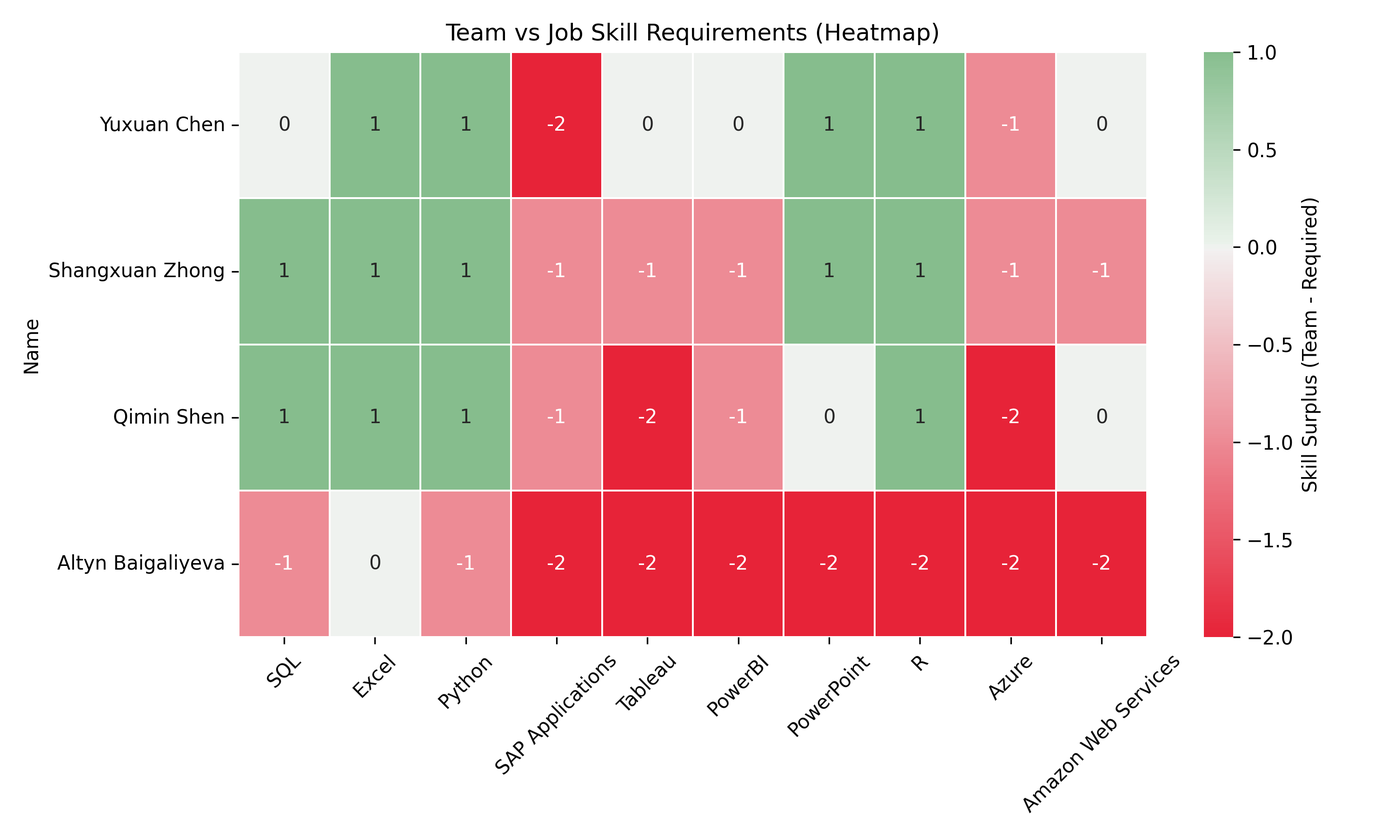
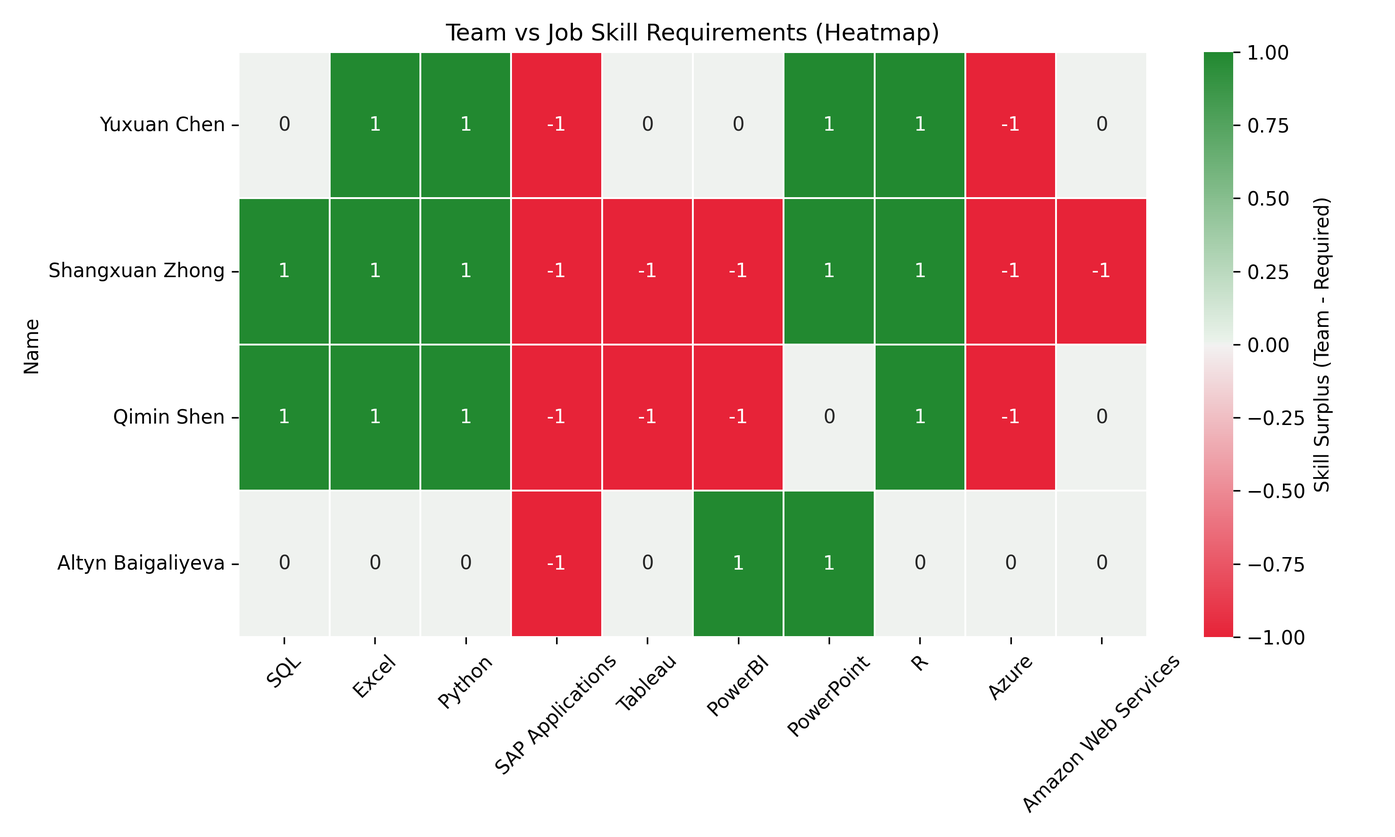
Built site for gh-pages

diff --git a/skill_gap_analysis.html b/skill_gap_analysis.html
@@ -209,7 +209,7 @@ pre > code.sourceCode > span > a:first-child::before { text-decoration: underlin
 </header>
 
 
-<div id="ce1b566e" class="cell" data-execution_count="1">
+<div id="b897d905" class="cell" data-execution_count="1">
 <details class="code-fold">
 <summary>Code</summary>
 <div class="sourceCode cell-code" id="cb1"><pre class="sourceCode python code-with-copy"><code class="sourceCode python"><span id="cb1-1"><a href="#cb1-1" aria-hidden="true" tabindex="-1"></a><span class="im">import</span> pandas <span class="im">as</span> pd</span>
@@ -231,7 +231,7 @@ pre > code.sourceCode > span > a:first-child::before { text-decoration: underlin
 <section id="creating-a-team-based-skills-data-framework" class="level2" data-number="1">
 <h2 data-number="1" class="anchored" data-anchor-id="creating-a-team-based-skills-data-framework"><span class="header-section-number">1</span> Creating a team-based skills data framework</h2>
 <p>We take a column of software skill names from the cleaned dataset, splits each entry, cleans up the text, and counts how often each skill appears. Then, we grabs the top 30 most frequent skills, and puts them into a tidy table using pandas to make it easier to view.</p>
-<div id="de0eb65f" class="cell" data-execution_count="2">
+<div id="d9a09c83" class="cell" data-execution_count="2">
 <details class="code-fold">
 <summary>Code</summary>
 <div class="sourceCode cell-code" id="cb2"><pre class="sourceCode python code-with-copy"><code class="sourceCode python"><span id="cb2-1"><a href="#cb2-1" aria-hidden="true" tabindex="-1"></a><span class="im">from</span> collections <span class="im">import</span> Counter</span>
@@ -258,7 +258,7 @@ pre > code.sourceCode > span > a:first-child::before { text-decoration: underlin
 </details>
 </div>
 <p>We build a table showing the skill levels of our team members across various tools like SQL, Excel, Python, and others. Then we create a heatmap to visually highlight each person’s strengths and weaknesses, making it easy to compare skill levels across the team.</p>
-<div id="de417283" class="cell" data-execution_count="3">
+<div id="f37fe4df" class="cell" data-execution_count="3">
 <details class="code-fold">
 <summary>Code</summary>
 <div class="sourceCode cell-code" id="cb3"><pre class="sourceCode python code-with-copy"><code class="sourceCode python"><span id="cb3-1"><a href="#cb3-1" aria-hidden="true" tabindex="-1"></a><span class="im">import</span> pandas <span class="im">as</span> pd</span>
@@ -268,16 +268,16 @@ pre > code.sourceCode > span > a:first-child::before { text-decoration: underlin
 <span id="cb3-5"><a href="#cb3-5" aria-hidden="true" tabindex="-1"></a><span class="co"># 1. Construct team skill level data</span></span>
 <span id="cb3-6"><a href="#cb3-6" aria-hidden="true" tabindex="-1"></a>skills_data <span class="op">=</span> {</span>
 <span id="cb3-7"><a href="#cb3-7" aria-hidden="true" tabindex="-1"></a>    <span class="st">"Name"</span>: [<span class="st">"Yuxuan Chen"</span>, <span class="st">"Shangxuan Zhong"</span>, <span class="st">"Qimin Shen"</span>, <span class="st">"Altyn Baigaliyeva"</span>],</span>
-<span id="cb3-8"><a href="#cb3-8" aria-hidden="true" tabindex="-1"></a>    <span class="st">"SQL"</span>: [<span class="dv">3</span>, <span class="dv">4</span>, <span class="dv">4</span>, <span class="dv">2</span>],</span>
+<span id="cb3-8"><a href="#cb3-8" aria-hidden="true" tabindex="-1"></a>    <span class="st">"SQL"</span>: [<span class="dv">3</span>, <span class="dv">4</span>, <span class="dv">4</span>, <span class="dv">3</span>],</span>
 <span id="cb3-9"><a href="#cb3-9" aria-hidden="true" tabindex="-1"></a>    <span class="st">"Excel"</span>: [<span class="dv">4</span>, <span class="dv">4</span>, <span class="dv">4</span>, <span class="dv">3</span>],</span>
-<span id="cb3-10"><a href="#cb3-10" aria-hidden="true" tabindex="-1"></a>    <span class="st">"Python"</span>: [<span class="dv">4</span>, <span class="dv">4</span>, <span class="dv">4</span>, <span class="dv">2</span>],</span>
-<span id="cb3-11"><a href="#cb3-11" aria-hidden="true" tabindex="-1"></a>    <span class="st">"SAP Applications"</span>: [<span class="dv">1</span>, <span class="dv">2</span>, <span class="dv">2</span>, <span class="dv">1</span>],</span>
-<span id="cb3-12"><a href="#cb3-12" aria-hidden="true" tabindex="-1"></a>    <span class="st">"Tableau"</span>: [<span class="dv">3</span>, <span class="dv">2</span>, <span class="dv">1</span>, <span class="dv">1</span>],</span>
-<span id="cb3-13"><a href="#cb3-13" aria-hidden="true" tabindex="-1"></a>    <span class="st">"PowerBI"</span>: [<span class="dv">3</span>, <span class="dv">2</span>, <span class="dv">2</span>, <span class="dv">1</span>],</span>
-<span id="cb3-14"><a href="#cb3-14" aria-hidden="true" tabindex="-1"></a>    <span class="st">"PowerPoint"</span>: [<span class="dv">4</span>, <span class="dv">4</span>, <span class="dv">3</span>, <span class="dv">1</span>],</span>
-<span id="cb3-15"><a href="#cb3-15" aria-hidden="true" tabindex="-1"></a>    <span class="st">"R"</span>: [<span class="dv">4</span>, <span class="dv">4</span>, <span class="dv">4</span>, <span class="dv">1</span>],</span>
-<span id="cb3-16"><a href="#cb3-16" aria-hidden="true" tabindex="-1"></a>    <span class="st">"Azure"</span>: [<span class="dv">2</span>, <span class="dv">2</span>, <span class="dv">1</span>, <span class="dv">1</span>],</span>
-<span id="cb3-17"><a href="#cb3-17" aria-hidden="true" tabindex="-1"></a>    <span class="st">"Amazon Web Services"</span>: [<span class="dv">3</span>, <span class="dv">2</span>, <span class="dv">3</span>, <span class="dv">1</span>]</span>
+<span id="cb3-10"><a href="#cb3-10" aria-hidden="true" tabindex="-1"></a>    <span class="st">"Python"</span>: [<span class="dv">4</span>, <span class="dv">4</span>, <span class="dv">4</span>, <span class="dv">3</span>],</span>
+<span id="cb3-11"><a href="#cb3-11" aria-hidden="true" tabindex="-1"></a>    <span class="st">"SAP Applications"</span>: [<span class="dv">2</span>, <span class="dv">2</span>, <span class="dv">2</span>, <span class="dv">2</span>],</span>
+<span id="cb3-12"><a href="#cb3-12" aria-hidden="true" tabindex="-1"></a>    <span class="st">"Tableau"</span>: [<span class="dv">3</span>, <span class="dv">2</span>, <span class="dv">2</span>, <span class="dv">3</span>],</span>
+<span id="cb3-13"><a href="#cb3-13" aria-hidden="true" tabindex="-1"></a>    <span class="st">"PowerBI"</span>: [<span class="dv">3</span>, <span class="dv">2</span>, <span class="dv">2</span>, <span class="dv">4</span>],</span>
+<span id="cb3-14"><a href="#cb3-14" aria-hidden="true" tabindex="-1"></a>    <span class="st">"PowerPoint"</span>: [<span class="dv">4</span>, <span class="dv">4</span>, <span class="dv">3</span>, <span class="dv">4</span>],</span>
+<span id="cb3-15"><a href="#cb3-15" aria-hidden="true" tabindex="-1"></a>    <span class="st">"R"</span>: [<span class="dv">4</span>, <span class="dv">4</span>, <span class="dv">4</span>, <span class="dv">3</span>],</span>
+<span id="cb3-16"><a href="#cb3-16" aria-hidden="true" tabindex="-1"></a>    <span class="st">"Azure"</span>: [<span class="dv">2</span>, <span class="dv">2</span>, <span class="dv">2</span>, <span class="dv">3</span>],</span>
+<span id="cb3-17"><a href="#cb3-17" aria-hidden="true" tabindex="-1"></a>    <span class="st">"Amazon Web Services"</span>: [<span class="dv">3</span>, <span class="dv">2</span>, <span class="dv">3</span>, <span class="dv">3</span>]</span>
 <span id="cb3-18"><a href="#cb3-18" aria-hidden="true" tabindex="-1"></a>}</span>
 <span id="cb3-19"><a href="#cb3-19" aria-hidden="true" tabindex="-1"></a></span>
 <span id="cb3-20"><a href="#cb3-20" aria-hidden="true" tabindex="-1"></a><span class="co"># 2. Create dataframe and set Name as index</span></span>
@@ -304,7 +304,7 @@ pre > code.sourceCode > span > a:first-child::before { text-decoration: underlin
 <section id="compare-team-skills-to-industry-requirements" class="level2" data-number="2">
 <h2 data-number="2" class="anchored" data-anchor-id="compare-team-skills-to-industry-requirements"><span class="header-section-number">2</span> Compare team skills to industry requirements</h2>
 <p>We add a new column EDU_MATCH to the dataset to check if each person’s actual education level matches the minimum education requirement. If they match, it labels the row as “Match”; otherwise, it marks it as “Mismatch.” This makes it easy to see who meets the education criteria and who doesn’t.</p>
-<div id="c47fb356" class="cell" data-execution_count="4">
+<div id="85d025f5" class="cell" data-execution_count="4">
 <details class="code-fold">
 <summary>Code</summary>
 <div class="sourceCode cell-code" id="cb4"><pre class="sourceCode python code-with-copy"><code class="sourceCode python"><span id="cb4-1"><a href="#cb4-1" aria-hidden="true" tabindex="-1"></a><span class="im">from</span> pyspark.sql.functions <span class="im">import</span> col, when</span>
@@ -325,7 +325,7 @@ pre > code.sourceCode > span > a:first-child::before { text-decoration: underlin
 </details>
 </div>
 <p>Then we create a reference table that links each unique minimum education level required for a job to a corresponding score. It assigns higher scores to higher education levels, for example, a Ph.D.&nbsp;gets a 5, a Master’s a 4, and so on, down to 0 for jobs that list no education requirement. And we think this scoring helps quantify and compare job expectations based on the level of education required.</p>
-<div id="3de45dbc" class="cell" data-execution_count="5">
+<div id="1349e6b0" class="cell" data-execution_count="5">
 <details class="code-fold">
 <summary>Code</summary>
 <div class="sourceCode cell-code" id="cb5"><pre class="sourceCode python code-with-copy"><code class="sourceCode python"><span id="cb5-1"><a href="#cb5-1" aria-hidden="true" tabindex="-1"></a><span class="im">from</span> pyspark.sql.functions <span class="im">import</span> when, lit, col, trim</span>
@@ -355,7 +355,7 @@ pre > code.sourceCode > span > a:first-child::before { text-decoration: underlin
 </figure>
 </div>
 <p>We analyze how often each software skill appears in job listings, categorized by the required education level (which we previously converted into scores). First, we join the education score to each job, split the combined skill strings into individual skills, and count how frequently each skill appears at each education score level. Second, we reshape the data so that each skill shows the number of times it appears across all score levels. Finally, we identify the most common score for each skill. If multiple scores tie for the highest count, we will select the lowest one among them—resulting in a “Proficiency_Levels” value that reflects the typical education requirement associated with that skill in the job market.</p>
-<div id="57450f72" class="cell" data-execution_count="6">
+<div id="99afce66" class="cell" data-execution_count="6">
 <details class="code-fold">
 <summary>Code</summary>
 <div class="sourceCode cell-code" id="cb6"><pre class="sourceCode python code-with-copy"><code class="sourceCode python"><span id="cb6-1"><a href="#cb6-1" aria-hidden="true" tabindex="-1"></a><span class="im">from</span> pyspark.sql.functions <span class="im">import</span> count, array, struct, sort_array, expr, size, element_at, col, lit, greatest, when</span>
@@ -401,7 +401,7 @@ pre > code.sourceCode > span > a:first-child::before { text-decoration: underlin
 </details>
 </div>
 <p>Here we focus on a specific set of software skills that are relevant to our analysis. First, we define a list of target skills we’re interested in, such as SQL, Excel, Python, Tableau, and others. Then, we filter our previously processed skill data to only include these selected skills, keeping just the skill names and their associated “Proficiency_Levels”. Finally, we sort the result alphabetically by skill name to make it easier to review and compare.</p>
-<div id="ac59bd6c" class="cell" data-execution_count="7">
+<div id="23395e1f" class="cell" data-execution_count="7">
 <details class="code-fold">
 <summary>Code</summary>
 <div class="sourceCode cell-code" id="cb7"><pre class="sourceCode python code-with-copy"><code class="sourceCode python"><span id="cb7-1"><a href="#cb7-1" aria-hidden="true" tabindex="-1"></a><span class="im">from</span> pyspark.sql.functions <span class="im">import</span> lit</span>
@@ -430,7 +430,7 @@ pre > code.sourceCode > span > a:first-child::before { text-decoration: underlin
 </figure>
 </div>
 <p>Now we are able to evaluate how well our team’s skill levels match up with job market expectations. First, we collect the proficiency scores for a set of target skills from our previous results. Then, we rename the skill labels into a more readable and consistent format for easier comparison. Next, we calculate the skill gap for each team member by subtracting the job-required score from their actual skill level. Here, positive values mean the team exceeds the requirement, while negative values show areas for improvement. Finally, we visualize these gaps using a heatmap, making it easy to spot which skills are strong and which need development across the team.</p>
-<div id="c0b00d12" class="cell" data-execution_count="8">
+<div id="646a9ae2" class="cell" data-execution_count="8">
 <details class="code-fold">
 <summary>Code</summary>
 <div class="sourceCode cell-code" id="cb8"><pre class="sourceCode python code-with-copy"><code class="sourceCode python"><span id="cb8-1"><a href="#cb8-1" aria-hidden="true" tabindex="-1"></a><span class="im">import</span> pandas <span class="im">as</span> pd</span>

diff --git a/ml_methods.html b/ml_methods.html
@@ -226,7 +226,7 @@ pre > code.sourceCode > span > a:first-child::before { text-decoration: underlin
 </header>
 
 
-<div id="13be7d13" class="cell" data-execution_count="1">
+<div id="95ecd29c" class="cell" data-execution_count="1">
 <details class="code-fold">
 <summary>Code</summary>
 <div class="sourceCode cell-code" id="cb1"><pre class="sourceCode python code-with-copy"><code class="sourceCode python"><span id="cb1-1"><a href="#cb1-1" aria-hidden="true" tabindex="-1"></a><span class="im">import</span> pandas <span class="im">as</span> pd</span>
@@ -250,7 +250,7 @@ pre > code.sourceCode > span > a:first-child::before { text-decoration: underlin
 <section id="build-model-and-compute-sse" class="level2" data-number="1.1">
 <h2 data-number="1.1" class="anchored" data-anchor-id="build-model-and-compute-sse"><span class="header-section-number">1.1</span> Build model and compute SSE</h2>
 <p>Here we run a clustering analysis on our cleaned dataset to explore how different job roles might naturally group together based on salary, employment type, and a few categorical factors like job duration, education level, remote options, and state. First, we convert the numeric fields to the right type, and encode the categorical ones so the model can understand them. Then we bring everything together into a single feature set, standardize it to keep things fair across scales, and try out different numbers of clusters using K-Means. For each value of k, we fit the model and record the SSE, which gives us a sense of how tight the clusters are. Finally, we plot those values to create an Elbow chart, which helps us visually decide the most reasonable number of clusters to use moving forward.</p>
-<div id="936c192a" class="cell" data-execution_count="2">
+<div id="1298db07" class="cell" data-execution_count="2">
 <details class="code-fold">
 <summary>Code</summary>
 <div class="sourceCode cell-code" id="cb2"><pre class="sourceCode python code-with-copy"><code class="sourceCode python"><span id="cb2-1"><a href="#cb2-1" aria-hidden="true" tabindex="-1"></a><span class="im">from</span> pyspark.ml.clustering <span class="im">import</span> KMeans</span>
@@ -324,7 +324,7 @@ pre > code.sourceCode > span > a:first-child::before { text-decoration: underlin
 <section id="cluster-validation" class="level2" data-number="1.2">
 <h2 data-number="1.2" class="anchored" data-anchor-id="cluster-validation"><span class="header-section-number">1.2</span> Cluster validation</h2>
 <p>We go on capturing the cluster each data point falls into. We focus on comparing the resulting clusters with the actual employment type to see how well our unsupervised model aligns with that real-world label. We encode the employment types into numeric labels using LabelEncoder, and then use two metrics, Normalized Mutual Information (NMI) and Adjusted Rand Index (ARI), to quantify the similarity between our clusters and the actual labels. These scores give us a sense of whether the model found meaningful groupings or just jumbled everything together, while a higher score means better alignment. So this helps us validate how useful the clustering might actually be.</p>
-<div id="94945f2f" class="cell" data-execution_count="3">
+<div id="1c8f94fd" class="cell" data-execution_count="3">
 <details class="code-fold">
 <summary>Code</summary>
 <div class="sourceCode cell-code" id="cb3"><pre class="sourceCode python code-with-copy"><code class="sourceCode python"><span id="cb3-1"><a href="#cb3-1" aria-hidden="true" tabindex="-1"></a><span class="im">from</span> sklearn.preprocessing <span class="im">import</span> LabelEncoder</span>
@@ -363,7 +363,7 @@ pre > code.sourceCode > span > a:first-child::before { text-decoration: underlin
 <section id="comparing-and-show-results" class="level2" data-number="1.3">
 <h2 data-number="1.3" class="anchored" data-anchor-id="comparing-and-show-results"><span class="header-section-number">1.3</span> Comparing and show results</h2>
 <p>After clustering, we wanted to get a clearer, more intuitive sense of what the clusters actually look like. So we built a bunch of scatter plots to visually explore the patterns. We pull each key variables, job duration, education level, employment type, remote status, and state, then compare them against salary while highlighting different clusters one at a time. For categorical variables, we do a bit of behind-the-scenes magic to convert them into numbers for plotting, and we use a jitter function to keep overlapping points from stacking on top of each other. Each row in the grid of plots represents a variable, and each column highlights a different cluster, making it easier to spot what sets one group apart from the others. This helps us interpret the clusters more meaningfully—like whether one cluster tends to include higher salaries or is dominated by remote jobs.</p>
-<div id="1aaad319" class="cell" data-execution_count="4">
+<div id="f6897c66" class="cell" data-execution_count="4">
 <details class="code-fold">
 <summary>Code</summary>
 <div class="sourceCode cell-code" id="cb4"><pre class="sourceCode python code-with-copy"><code class="sourceCode python"><span id="cb4-1"><a href="#cb4-1" aria-hidden="true" tabindex="-1"></a><span class="im">import</span> matplotlib.pyplot <span class="im">as</span> plt</span>
@@ -443,7 +443,7 @@ pre > code.sourceCode > span > a:first-child::before { text-decoration: underlin
 <p>We generate individual plots for each variable we’re analyzing, one plot per variable, showing how salary relates to that variable across the different clusters. For each variable like duration, education, or remote type, we highlight each cluster one at a time (so 3 plots per variable), which really helps us zoom in and understand what makes each cluster unique in relation to salary. And we save all these charts in the image folder.</p>
 <section id="k-means-of-duration" class="level3" data-number="1.4.1">
 <h3 data-number="1.4.1" class="anchored" data-anchor-id="k-means-of-duration"><span class="header-section-number">1.4.1</span> K-Means of Duration</h3>
-<div id="05122729" class="cell" data-execution_count="5">
+<div id="663ff835" class="cell" data-execution_count="5">
 <details class="code-fold">
 <summary>Code</summary>
 <div class="sourceCode cell-code" id="cb5"><pre class="sourceCode python code-with-copy"><code class="sourceCode python"><span id="cb5-1"><a href="#cb5-1" aria-hidden="true" tabindex="-1"></a><span class="im">import</span> os</span>
@@ -560,7 +560,7 @@ pre > code.sourceCode > span > a:first-child::before { text-decoration: underlin
 <section id="build-model" class="level2" data-number="2.1">
 <h2 data-number="2.1" class="anchored" data-anchor-id="build-model"><span class="header-section-number">2.1</span> Build model</h2>
 <p>We’re building a multivariate linear regression model to predict salary, by preprocessing everything carefully before the modeling step. First, we pick the features we believe are relevant, like job duration, education level, employment type, remote status, and state. Since machine learning models can’t handle raw strings, we convert all the categorical fields into numerical format using indexing and one-hot encoding. Then, we combine everything (including the duration field) into a single feature vector and standardize the scale, so each variable has a fair influence on the model. We split the data into training and testing sets, build a pipeline to keep things clean and reproducible, and train a linear regression model. Finally, we evaluate how well our model performs using R² and RMSE, giving us a solid sense of how much of the salary variance we’re capturing—and how far off we might be on average.</p>
-<div id="bc5c648c" class="cell" data-execution_count="6">
+<div id="fefcc6ac" class="cell" data-execution_count="6">
 <details class="code-fold">
 <summary>Code</summary>
 <div class="sourceCode cell-code" id="cb6"><pre class="sourceCode python code-with-copy"><code class="sourceCode python"><span id="cb6-1"><a href="#cb6-1" aria-hidden="true" tabindex="-1"></a><span class="co"># Multiple Linear Regression</span></span>
@@ -613,7 +613,7 @@ pre > code.sourceCode > span > a:first-child::before { text-decoration: underlin
 <section id="results-and-analysis" class="level2" data-number="2.2">
 <h2 data-number="2.2" class="anchored" data-anchor-id="results-and-analysis"><span class="header-section-number">2.2</span> Results and analysis</h2>
 <p>With two evaluation metrics: R² (how well the model explains salary variation) and RMSE (average prediction error), we create scatter plot is created with actual salaries on the x-axis and predicted on the y-axis, with a red dashed line representing a perfect prediction. And it helps visually assess model accuracy.</p>
-<div id="948be7b6" class="cell" data-execution_count="7">
+<div id="13fcb7fd" class="cell" data-execution_count="7">
 <details class="code-fold">
 <summary>Code</summary>
 <div class="sourceCode cell-code" id="cb7"><pre class="sourceCode python code-with-copy"><code class="sourceCode python"><span id="cb7-1"><a href="#cb7-1" aria-hidden="true" tabindex="-1"></a>pdf <span class="op">=</span> predictions.select(<span class="st">"SALARY"</span>, <span class="st">"prediction"</span>).toPandas()</span>

diff --git a/data_cleaning.html b/data_cleaning.html
@@ -222,7 +222,7 @@ pre > code.sourceCode > span > a:first-child::before { text-decoration: underlin
 
 <section id="load-the-dataset" class="level1">
 <h1>Load the dataset</h1>
-<div id="7ab7e7fb" class="cell" data-execution_count="1">
+<div id="624afc12" class="cell" data-execution_count="1">
 <details class="code-fold">
 <summary>Code</summary>
 <div class="sourceCode cell-code" id="cb1"><pre class="sourceCode python code-with-copy"><code class="sourceCode python"><span id="cb1-1"><a href="#cb1-1" aria-hidden="true" tabindex="-1"></a><span class="im">import</span> pandas <span class="im">as</span> pd</span>
@@ -243,7 +243,7 @@ pre > code.sourceCode > span > a:first-child::before { text-decoration: underlin
 <section id="update-duration" class="level2">
 <h2 class="anchored" data-anchor-id="update-duration">1. Update Duration</h2>
 <p>Calculates the duration of each job posting by finding the difference between its expiration and posted dates. Converts the POSTED and EXPIRED columns from string to date format. Update DURATION if it is null with the number of days between EXPIRED and POSTED, otherwise, the existing value is kept.</p>
-<div id="dd3f7212" class="cell" data-execution_count="2">
+<div id="9d742d3b" class="cell" data-execution_count="2">
 <details class="code-fold">
 <summary>Code</summary>
 <div class="sourceCode cell-code" id="cb2"><pre class="sourceCode python code-with-copy"><code class="sourceCode python"><span id="cb2-1"><a href="#cb2-1" aria-hidden="true" tabindex="-1"></a><span class="co"># 1.DURATION = EXPIRED - POSTED</span></span>
@@ -266,7 +266,7 @@ pre > code.sourceCode > span > a:first-child::before { text-decoration: underlin
 <section id="clean-the-columns" class="level2">
 <h2 class="anchored" data-anchor-id="clean-the-columns">2. Clean the columns</h2>
 <p>Cleans up multiple text columns in the DataFrame by extracting and formatting the content originally enclosed in double quotes. Columns to clean contain those string values often wrapped in brackets, double quotes, or cluttered with newlines and extra spaces. For each of these columns, using regular expressions to remove square brackets, line breaks, and excess whitespace, formats comma-separated items with a proper space after each comma, and removes all double quotes, resulting in cleaner, more readable text entries across the specified columns.</p>
-<div id="00443ab2" class="cell" data-execution_count="3">
+<div id="90d28f2d" class="cell" data-execution_count="3">
 <details class="code-fold">
 <summary>Code</summary>
 <div class="sourceCode cell-code" id="cb3"><pre class="sourceCode python code-with-copy"><code class="sourceCode python"><span id="cb3-1"><a href="#cb3-1" aria-hidden="true" tabindex="-1"></a><span class="co"># 2. Remove square brackets, line breaks, spaces, and replace the formatting between commas with “,”, then remove the double quotes</span></span>
@@ -288,7 +288,7 @@ pre > code.sourceCode > span > a:first-child::before { text-decoration: underlin
 <section id="clean-the-education-level-column" class="level2">
 <h2 class="anchored" data-anchor-id="clean-the-education-level-column">3. Clean the education level column</h2>
 <p>Cleans the EDUCATION_LEVELS column by extracting and retaining only the numeric portion of each entry. Removing surrounding text or symbols, leaving just the numeric education level in the column. This makes the data more consistent and easier to work with for analysis or modeling purposes.</p>
-<div id="5fae9288" class="cell" data-execution_count="4">
+<div id="d0fd3f1f" class="cell" data-execution_count="4">
 <details class="code-fold">
 <summary>Code</summary>
 <div class="sourceCode cell-code" id="cb4"><pre class="sourceCode python code-with-copy"><code class="sourceCode python"><span id="cb4-1"><a href="#cb4-1" aria-hidden="true" tabindex="-1"></a><span class="co"># 3.EDUCATION_LEVELS only keeps digits</span></span>
@@ -301,7 +301,7 @@ pre > code.sourceCode > span > a:first-child::before { text-decoration: underlin
 <section id="clean-the-location-column" class="level2">
 <h2 class="anchored" data-anchor-id="clean-the-location-column">4. Clean the location column</h2>
 <p>Cleans the LOCATION column, ensures that all location information appears on one line, and removes curly braces, resulting a cleaner, more uniform LOCATION column for reading and analyzing</p>
-<div id="46c866fe" class="cell" data-execution_count="5">
+<div id="f1526696" class="cell" data-execution_count="5">
 <details class="code-fold">
 <summary>Code</summary>
 <div class="sourceCode cell-code" id="cb5"><pre class="sourceCode python code-with-copy"><code class="sourceCode python"><span id="cb5-1"><a href="#cb5-1" aria-hidden="true" tabindex="-1"></a><span class="co"># 4. LOCATION only keeps data</span></span>
@@ -315,7 +315,7 @@ pre > code.sourceCode > span > a:first-child::before { text-decoration: underlin
 <section id="update-modeled-duration" class="level2">
 <h2 class="anchored" data-anchor-id="update-modeled-duration">5. Update Modeled Duration</h2>
 <p>Similarly as in updating duration, fills in the value with the number of days between MODELED_EXPIRED and POSTED, helps standardize and complete the duration data for modeled job postings</p>
-<div id="f1a1e04f" class="cell" data-execution_count="6">
+<div id="e611ef14" class="cell" data-execution_count="6">
 <details class="code-fold">
 <summary>Code</summary>
 <div class="sourceCode cell-code" id="cb6"><pre class="sourceCode python code-with-copy"><code class="sourceCode python"><span id="cb6-1"><a href="#cb6-1" aria-hidden="true" tabindex="-1"></a><span class="co"># 5.MODELED_DURATION = MODELED_EXPIRED - POSTED</span></span>
@@ -337,7 +337,7 @@ pre > code.sourceCode > span > a:first-child::before { text-decoration: underlin
 <section id="standardize-remote-work-types" class="level2">
 <h2 class="anchored" data-anchor-id="standardize-remote-work-types">6. Standardize Remote Work Types</h2>
 <p>Standardizes the values in the REMOTE_TYPE_NAME column to ensure consistency in describing remote work types. Replaces values None and Not Remote with On-Site, changes Hybrid Remote to Hybrid, and keeps Remote as is. Simplify and unify the classification of job postings based on work location</p>
-<div id="b932ebd5" class="cell" data-execution_count="7">
+<div id="27a9a3bf" class="cell" data-execution_count="7">
 <details class="code-fold">
 <summary>Code</summary>
 <div class="sourceCode cell-code" id="cb7"><pre class="sourceCode python code-with-copy"><code class="sourceCode python"><span id="cb7-1"><a href="#cb7-1" aria-hidden="true" tabindex="-1"></a><span class="co"># 6. Standardize Remote Work Types</span></span>
@@ -363,7 +363,7 @@ pre > code.sourceCode > span > a:first-child::before { text-decoration: underlin
 </section>
 <section id="save-the-cleaned-data" class="level2">
 <h2 class="anchored" data-anchor-id="save-the-cleaned-data">9. Save the cleaned data</h2>
-<div id="c0d1a7ef" class="cell" data-execution_count="8">
+<div id="3a8a8422" class="cell" data-execution_count="8">
 <details class="code-fold">
 <summary>Code</summary>
 <div class="sourceCode cell-code" id="cb8"><pre class="sourceCode python code-with-copy"><code class="sourceCode python"><span id="cb8-1"><a href="#cb8-1" aria-hidden="true" tabindex="-1"></a><span class="co"># save data</span></span>

diff --git a/nlp_methods.html b/nlp_methods.html
@@ -219,7 +219,7 @@ pre > code.sourceCode > span > a:first-child::before { text-decoration: underlin
 </header>
 
 
-<div id="0b38c1a4" class="cell" data-execution_count="1">
+<div id="06aa8536" class="cell" data-execution_count="1">
 <details class="code-fold">
 <summary>Code</summary>
 <div class="sourceCode cell-code" id="cb1"><pre class="sourceCode python code-with-copy"><code class="sourceCode python"><span id="cb1-1"><a href="#cb1-1" aria-hidden="true" tabindex="-1"></a><span class="im">import</span> pandas <span class="im">as</span> pd</span>
@@ -241,7 +241,7 @@ pre > code.sourceCode > span > a:first-child::before { text-decoration: underlin
 <section id="extracting-key-terms-from-job-descriptions-using-tf-idf" class="level1" data-number="1">
 <h1 data-number="1"><span class="header-section-number">1</span> Extracting Key Terms from Job Descriptions Using TF-IDF</h1>
 <p>We start by extracting the job description text from the “BODY” column and convert it into a Pandas DataFrame for easier text processing. To clean it up a bit, we remove line breaks so that the text becomes more uniform and easier to analyze. Then, we apply TF-IDF (Term Frequency-Inverse Document Frequency), which helps us identify and quantify the most important words across all descriptions, ignoring common English stop words. This transformation converts the text into a numerical format, capturing how relevant each word is in a particular document compared to the whole collection.</p>
-<div id="a6a8a445" class="cell" data-execution_count="2">
+<div id="ef71c203" class="cell" data-execution_count="2">
 <details class="code-fold">
 <summary>Code</summary>
 <div class="sourceCode cell-code" id="cb2"><pre class="sourceCode python code-with-copy"><code class="sourceCode python"><span id="cb2-1"><a href="#cb2-1" aria-hidden="true" tabindex="-1"></a><span class="im">from</span> sklearn.feature_extraction.text <span class="im">import</span> TfidfVectorizer</span>
@@ -264,7 +264,7 @@ pre > code.sourceCode > span > a:first-child::before { text-decoration: underlin
 <p>We applied KMeans clustering to the TF-IDF features of job descriptions to group similar postings into four distinct clusters. Each job was assigned a cluster label, which we then used to explore the top terms that defined each group. By extracting the most influential keywords from each cluster’s TF-IDF centroid, we generated word clouds to visualize the dominant language and themes within each cluster. These word clouds help us quickly grasp the unique focus of different groups, whether it’s technical, managerial, or creative roles, based on the language used in job descriptions.</p>
 <section id="clustering-tf-idf-features-with-k-means" class="level2" data-number="2.1">
 <h2 data-number="2.1" class="anchored" data-anchor-id="clustering-tf-idf-features-with-k-means"><span class="header-section-number">2.1</span> Clustering TF-IDF features with K-Means</h2>
-<div id="89c39f90" class="cell" data-execution_count="3">
+<div id="ad2a391d" class="cell" data-execution_count="3">
 <details class="code-fold">
 <summary>Code</summary>
 <div class="sourceCode cell-code" id="cb3"><pre class="sourceCode python code-with-copy"><code class="sourceCode python"><span id="cb3-1"><a href="#cb3-1" aria-hidden="true" tabindex="-1"></a><span class="im">from</span> sklearn.cluster <span class="im">import</span> KMeans</span>
@@ -280,7 +280,7 @@ pre > code.sourceCode > span > a:first-child::before { text-decoration: underlin
 </section>
 <section id="generate-word-clouds-for-each-cluster" class="level2" data-number="2.2">
 <h2 data-number="2.2" class="anchored" data-anchor-id="generate-word-clouds-for-each-cluster"><span class="header-section-number">2.2</span> Generate word clouds for each cluster</h2>
-<div id="099a267c" class="cell" data-execution_count="4">
+<div id="9df8ed13" class="cell" data-execution_count="4">
 <details class="code-fold">
 <summary>Code</summary>
 <div class="sourceCode cell-code" id="cb4"><pre class="sourceCode python code-with-copy"><code class="sourceCode python"><span id="cb4-1"><a href="#cb4-1" aria-hidden="true" tabindex="-1"></a><span class="im">from</span> wordcloud <span class="im">import</span> WordCloud</span>
@@ -328,7 +328,7 @@ pre > code.sourceCode > span > a:first-child::before { text-decoration: underlin
 </section>
 <section id="distribution-of-the-number-of-jobs-in-each-category" class="level1" data-number="3">
 <h1 data-number="3"><span class="header-section-number">3</span> Distribution of the number of jobs in each category</h1>
-<div id="cb2e46ec" class="cell" data-execution_count="5">
+<div id="aa5e4e48" class="cell" data-execution_count="5">
 <details class="code-fold">
 <summary>Code</summary>
 <div class="sourceCode cell-code" id="cb5"><pre class="sourceCode python code-with-copy"><code class="sourceCode python"><span id="cb5-1"><a href="#cb5-1" aria-hidden="true" tabindex="-1"></a><span class="im">import</span> plotly.express <span class="im">as</span> px</span>
@@ -346,7 +346,7 @@ pre > code.sourceCode > span > a:first-child::before { text-decoration: underlin
 <p>We trained two different classifiers, Naive Bayes and Support Vector Machine(SVM), to predict job clusters based on TF-IDF features extracted from job descriptions. By splitting the data into training and testing sets, we evaluated the models’ accuracy in classifying unseen samples. The classification reports provided detailed performance metrics, while a confusion matrix visualized how well the SVM model distinguished between the four clusters. This approach helps us assess the feasibility of using machine learning to automatically categorize job posts based on their content.</p>
 <section id="training-two-classifiers" class="level2" data-number="4.1">
 <h2 data-number="4.1" class="anchored" data-anchor-id="training-two-classifiers"><span class="header-section-number">4.1</span> Training two classifiers</h2>
-<div id="b21a927c" class="cell" data-execution_count="6">
+<div id="8099cbcf" class="cell" data-execution_count="6">
 <details class="code-fold">
 <summary>Code</summary>
 <div class="sourceCode cell-code" id="cb6"><pre class="sourceCode python code-with-copy"><code class="sourceCode python"><span id="cb6-1"><a href="#cb6-1" aria-hidden="true" tabindex="-1"></a><span class="im">from</span> sklearn.model_selection <span class="im">import</span> train_test_split</span>
@@ -394,7 +394,7 @@ pre > code.sourceCode > span > a:first-child::before { text-decoration: underlin
 </section>
 <section id="keyword-heat-visualization-according-to-the-term-frequency" class="level1" data-number="5">
 <h1 data-number="5"><span class="header-section-number">5</span> Keyword heat visualization (according to the term frequency)</h1>
-<div id="daee8db2" class="cell" data-execution_count="7">
+<div id="67e0a227" class="cell" data-execution_count="7">
 <details class="code-fold">
 <summary>Code</summary>
 <div class="sourceCode cell-code" id="cb7"><pre class="sourceCode python code-with-copy"><code class="sourceCode python"><span id="cb7-1"><a href="#cb7-1" aria-hidden="true" tabindex="-1"></a><span class="im">import</span> numpy <span class="im">as</span> np</span>

diff --git a/eda.html b/eda.html
@@ -214,7 +214,7 @@ pre > code.sourceCode > span > a:first-child::before { text-decoration: underlin
 </header>
 
 
-<div id="9e95bb29" class="cell" data-execution_count="1">
+<div id="d7dd3aba" class="cell" data-execution_count="1">
 <details class="code-fold">
 <summary>Code</summary>
 <div class="sourceCode cell-code" id="cb1"><pre class="sourceCode python code-with-copy"><code class="sourceCode python"><span id="cb1-1"><a href="#cb1-1" aria-hidden="true" tabindex="-1"></a><span class="im">import</span> pandas <span class="im">as</span> pd</span>
@@ -237,7 +237,7 @@ pre > code.sourceCode > span > a:first-child::before { text-decoration: underlin
 <h1>Exploratory Data Analysis (EDA)</h1>
 <section id="comparison-of-salary-between-remote-and-on-site-work-box-chart" class="level2">
 <h2 class="anchored" data-anchor-id="comparison-of-salary-between-remote-and-on-site-work-box-chart">1. Comparison of salary between remote and on-site work (box chart)</h2>
-<div id="b6c544b7" class="cell" data-execution_count="2">
+<div id="674fb1f7" class="cell" data-execution_count="2">
 <details class="code-fold">
 <summary>Code</summary>
 <div class="sourceCode cell-code" id="cb2"><pre class="sourceCode python code-with-copy"><code class="sourceCode python"><span id="cb2-1"><a href="#cb2-1" aria-hidden="true" tabindex="-1"></a><span class="im">import</span> pandas <span class="im">as</span> pd</span>
@@ -268,7 +268,7 @@ pre > code.sourceCode > span > a:first-child::before { text-decoration: underlin
 </section>
 <section id="salary-by-region-map" class="level2">
 <h2 class="anchored" data-anchor-id="salary-by-region-map">2. Salary by region (map)</h2>
-<div id="8775593c" class="cell" data-execution_count="3">
+<div id="4f1452f4" class="cell" data-execution_count="3">
 <details class="code-fold">
 <summary>Code</summary>
 <div class="sourceCode cell-code" id="cb3"><pre class="sourceCode python code-with-copy"><code class="sourceCode python"><span id="cb3-1"><a href="#cb3-1" aria-hidden="true" tabindex="-1"></a><span class="co"># STATE_NAME change to .abbr</span></span>
@@ -314,7 +314,7 @@ pre > code.sourceCode > span > a:first-child::before { text-decoration: underlin
 </section>
 <section id="the-highest-paying-job" class="level2">
 <h2 class="anchored" data-anchor-id="the-highest-paying-job">3. The highest paying job</h2>
-<div id="eb5ee97b" class="cell" data-execution_count="4">
+<div id="3635733e" class="cell" data-execution_count="4">
 <details class="code-fold">
 <summary>Code</summary>
 <div class="sourceCode cell-code" id="cb4"><pre class="sourceCode python code-with-copy"><code class="sourceCode python"><span id="cb4-1"><a href="#cb4-1" aria-hidden="true" tabindex="-1"></a><span class="co"># Collecting data with .collect()</span></span>
@@ -342,7 +342,7 @@ pre > code.sourceCode > span > a:first-child::before { text-decoration: underlin
 </section>
 <section id="salary-comparison-between-ai-and-non-ai-positions" class="level2">
 <h2 class="anchored" data-anchor-id="salary-comparison-between-ai-and-non-ai-positions">4. Salary comparison between AI and non-AI positions</h2>
-<div id="94076214" class="cell" data-execution_count="5">
+<div id="b1a70d9c" class="cell" data-execution_count="5">
 <details class="code-fold">
 <summary>Code</summary>
 <div class="sourceCode cell-code" id="cb5"><pre class="sourceCode python code-with-copy"><code class="sourceCode python"><span id="cb5-1"><a href="#cb5-1" aria-hidden="true" tabindex="-1"></a><span class="im">import</span> plotly.express <span class="im">as</span> px</span>
